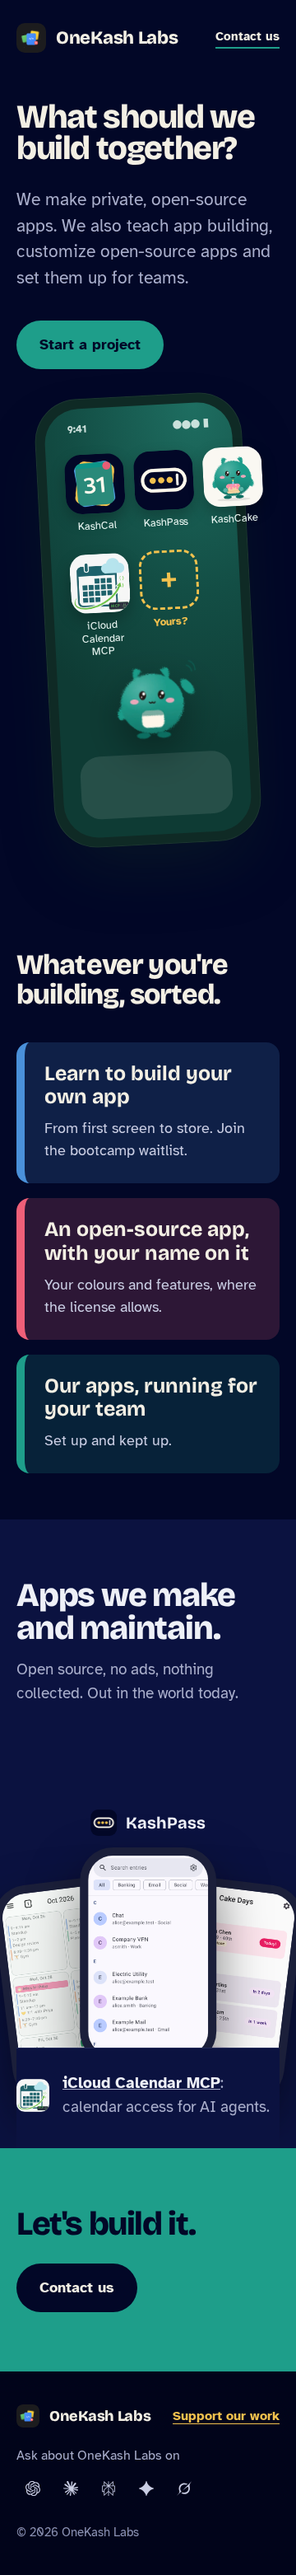
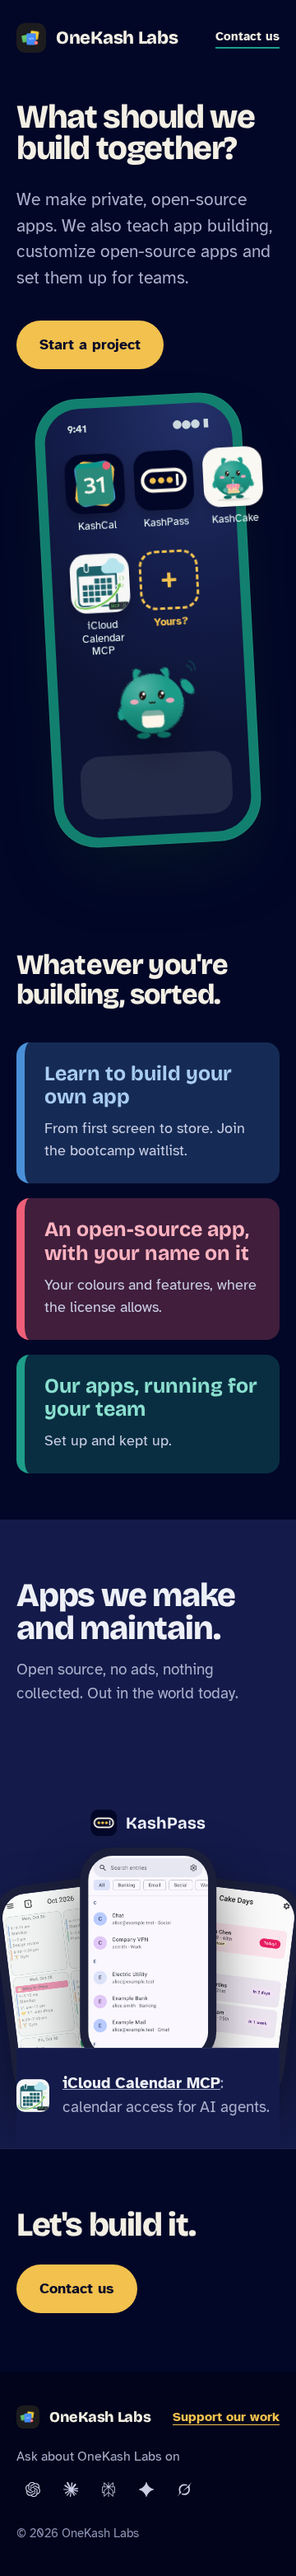
One meaning per colour: gold for your project, teal for our apps

diff --git a/index.html b/index.html
@@ -41,14 +41,15 @@
   .stage { position: relative; justify-self: center; width: min(100%, 380px); }
   .stage .phone { position: relative; z-index: 1; }
   .phone {
-    background: #0F2A25; border-radius: 52px; padding: 12px; transform: rotate(-4deg);
+    background: #12806F; border-radius: 52px; padding: 12px; transform: rotate(-4deg);
     width: min(100%, 360px); margin: 0 auto;
     box-shadow: 0 40px 80px -20px rgba(15, 42, 37, .45), 0 0 0 1px rgba(255, 255, 255, .06) inset;
   }
   .wall {
     border-radius: 42px; padding: 14px 22px 22px; color: #E9F6F2;
     aspect-ratio: 9 / 17; display: flex; flex-direction: column;
-    background: radial-gradient(120% 80% at 80% 0%, #1E6E61 0%, var(--wall) 55%, #0E3B34 100%);
+    background: radial-gradient(120% 80% at 80% 0%, #24326B 0%, #141D4A 55%, #0B1233 100%);
+    background-color: #141D4A;
   }
   .status { display: flex; justify-content: space-between; font-size: 13px; font-weight: 700; padding: 2px 6px 20px; opacity: .85; }
   .grid { display: grid; grid-template-columns: repeat(3, 1fr); gap: 26px 12px; }
@@ -73,9 +74,9 @@
   .offers { padding: clamp(56px, 8vw, 104px) 0; }
   .offers h2 { font-family: var(--display); font-weight: 800; font-size: clamp(34px, 4.6vw, 56px); line-height: 1.05; letter-spacing: -.025em; max-width: 18ch; margin-bottom: 40px; }
   .tiles { display: grid; grid-template-columns: repeat(3, 1fr); gap: 18px; }
-  .tile { display: block; text-decoration: none; border-radius: 16px; padding: 24px 24px 26px; border-inline-start: 10px solid var(--tile); background: color-mix(in srgb, var(--tile) 18%, #020727); color: #F3EFE4; }
-  .tile:hover { background: color-mix(in srgb, var(--tile) 28%, #020727); }
-  .tile h3 { font-family: var(--display); font-weight: 700; font-size: 25px; line-height: 1.15; margin-bottom: 10px; }
+  .tile { display: block; text-decoration: none; border-radius: 16px; padding: 24px 24px 26px; border-inline-start: 10px solid var(--tile); background: color-mix(in srgb, var(--tile) 26%, #020727); color: #F3EFE4; }
+  .tile:hover { background: color-mix(in srgb, var(--tile) 36%, #020727); }
+  .tile h3 { font-family: var(--display); font-weight: 700; font-size: 25px; line-height: 1.15; margin-bottom: 10px; color: var(--tile-ink); }
   .tile p { color: #C9CDE3; font-size: 18px; }
 
   /* Proof: the one dark band, three of the apps fanned out as phones showing their real screens. */
@@ -126,9 +127,9 @@
   }
   @media (max-width: 480px) { .top a.mail { font-size: 15px; } }
   :root { --paper: #020727; --ink: #F3EFE4; --ink-soft: #A9AECB; }
-  .btn { background: var(--teal); color: #020727; } .btn:hover { background: var(--gold); }
-  .built { background: #0B1240; } .built .tool { background: #0B1240; border-top-color: #222A5A; }
-  .talkband { background: var(--teal); } .talkband h2 { color: #020727; } .talkband .btn { background: #020727; color: #F3EFE4; } .talkband .btn:hover { background: #0B1240; color: #FFFFFF; }
+  .btn { background: var(--gold); color: #020727; } .btn:hover { background: #FFD978; }
+  .built { background: #141B4A; } .built .tool { background: #141B4A; border-top-color: #2A3366; }
+  .talkband { background: var(--navy); border-top: 1px solid #1C2350; } .talkband h2 { color: #F3EFE4; } .talkband .btn { background: var(--gold); color: #020727; } .talkband .btn:hover { background: #FFD978; color: #020727; }
   footer { background: #01041A; }
 </style>
 </head>
@@ -169,9 +170,9 @@
   <section class="offers" aria-labelledby="offers-h">
     <h2 id="offers-h">Whatever you're building, sorted.</h2>
     <div class="tiles">
-      <a class="tile" style="--tile: #4A90D9" href="#" data-mail="Bootcamp waitlist"><h3>Learn to build your own app</h3><p>From first screen to store. Join the bootcamp waitlist.</p></a>
-      <a class="tile" style="--tile: #EF5F78" href="#talk"><h3>An open-source app, with your name on it</h3><p>Your colours and features, where the license allows.</p></a>
-      <a class="tile" style="--tile: #1E9E8A" href="#talk"><h3>Our apps, running for your team</h3><p>Set up and kept up.</p></a>
+      <a class="tile" style="--tile: #4A90D9; --tile-ink: #A9CCF2" href="#" data-mail="Bootcamp waitlist"><h3>Learn to build your own app</h3><p>From first screen to store. Join the bootcamp waitlist.</p></a>
+      <a class="tile" style="--tile: #EF5F78; --tile-ink: #FFB3C0" href="#talk"><h3>An open-source app, with your name on it</h3><p>Your colours and features, where the license allows.</p></a>
+      <a class="tile" style="--tile: #1E9E8A; --tile-ink: #8BE0D0" href="#talk"><h3>Our apps, running for your team</h3><p>Set up and kept up.</p></a>
     </div>
   </section>
 </div>
